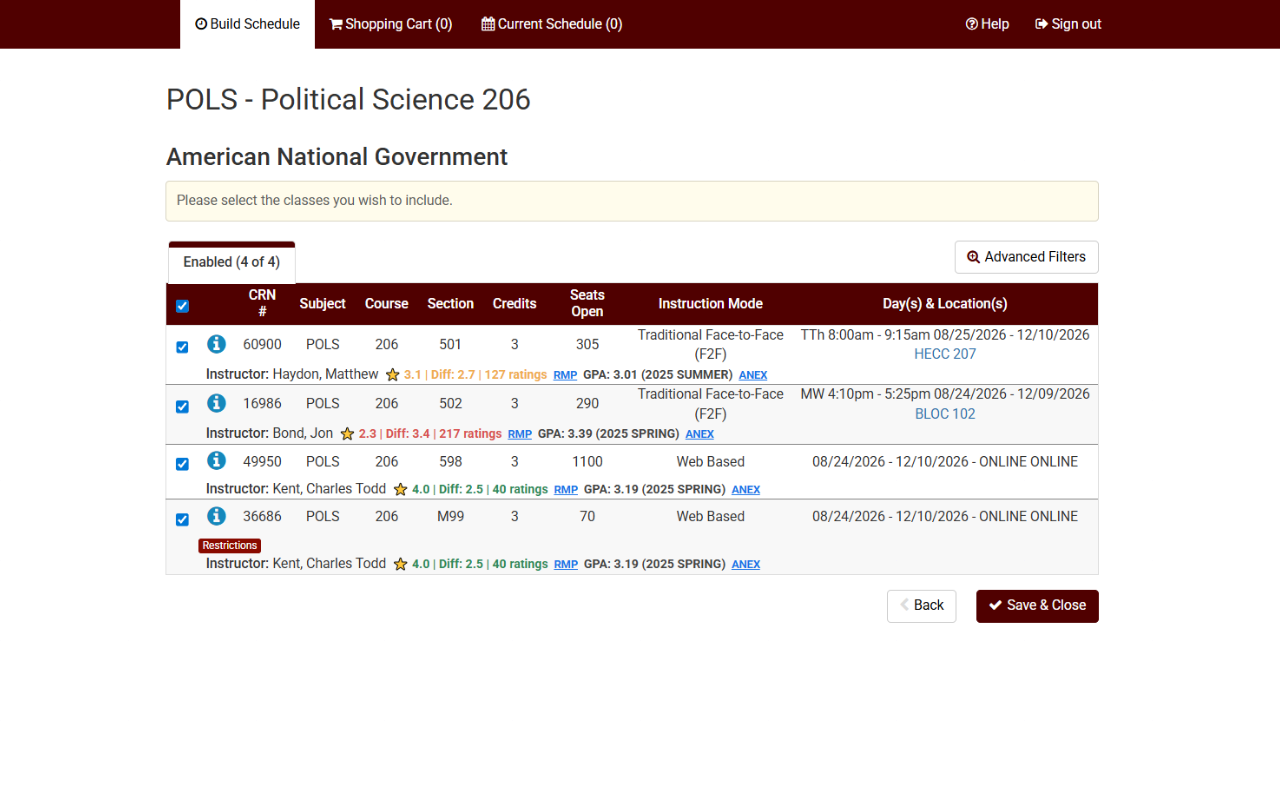
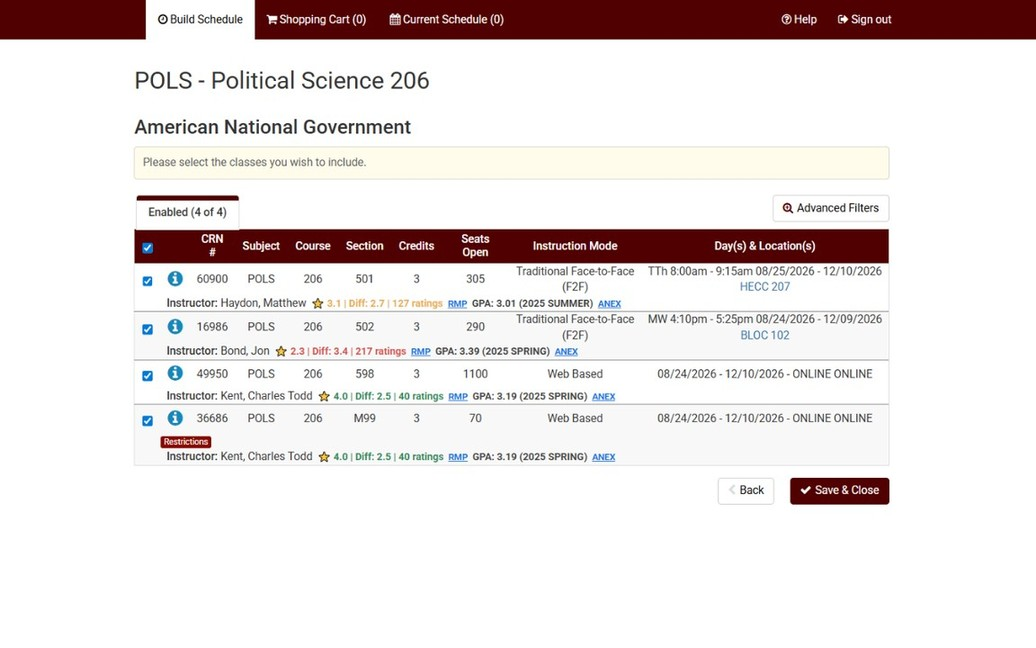
Added Install gif

diff --git a/README.md b/README.md
@@ -4,7 +4,7 @@ AgRate is a Chrome extension that injects professor ratings and GPA data directl
 
 Here is a sample of what the extension looks like:
 
-![AgRate sample](image-1280x800.jpg)
+<img src="image-1280x800.jpg" alt="AgRate sample" width="750">
 
 I am currently getting this approved for the Chrome Web Store, so the steps below are the temporary install method. I will update this GitHub repo when the store listing is available.
 
@@ -23,6 +23,10 @@ I am currently getting this approved for the Chrome Web Store, so the steps belo
 4. Injects the results into the page UI.
 
 **Install (Developer Mode)**
+
+Install walkthrough (auto-playing GIF):
+
+<img src="install.gif" alt="AgRate install walkthrough" width="700">
 
 1. Download the latest ZIP from:
    https://github.com/DavidQ1415/AgRate/releases/download/v1.0.0-beta/AgRate.zip
